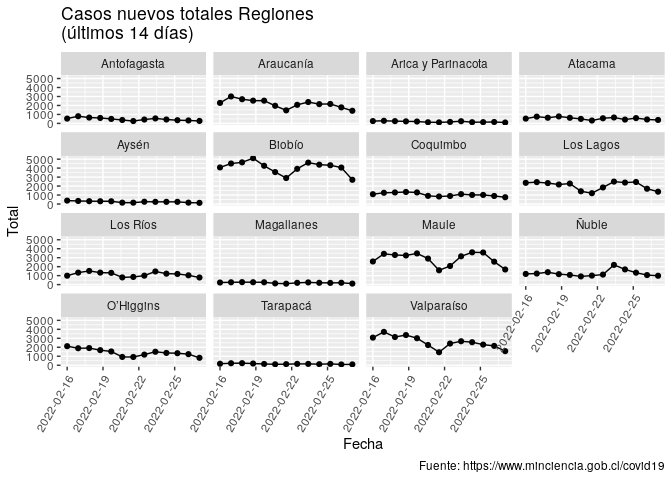
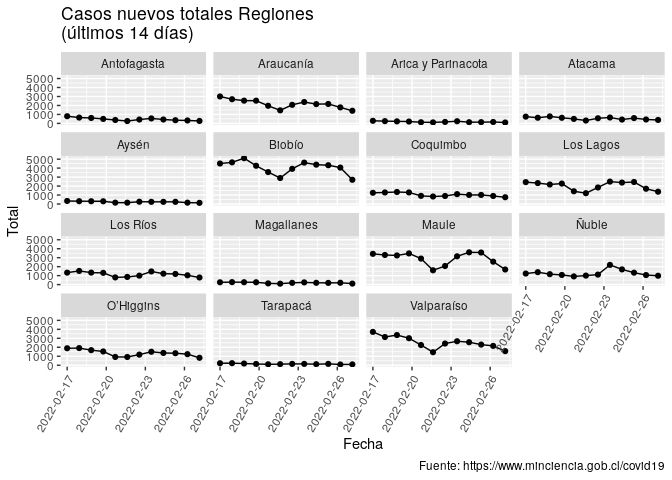
Re-build Rmarkdown files

diff --git a/README.md b/README.md
@@ -3,7 +3,7 @@
 
 Ejemplo de uso de total\_casos de COVID recopilados por el Ministerio de
 Ciencia de Chile <https://www.minciencia.gob.cl/covid19>. Última
-actualización: 2022-03-01
+actualización: 2022-03-02
 
 ## Visualización desde el comienzo de la pandemia
 
